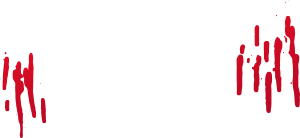
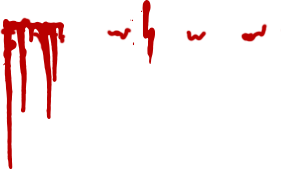
no message

diff --git a/src/js/component/Main.vue b/src/js/component/Main.vue
@@ -12,11 +12,12 @@
 		.title.title1.relat
 			.blood1.abs
 				img(src="../../img/dest/blood1.png")
-			.blood2.abs
-				img(src="../../img/dest/blood2.png")
+			
 			img.relat(src="../../img/dest/index-tit-1.png")
 			
 		.title.title2.relat
+			.blood2.abs
+				img(src="../../img/dest/blood2.png")
 			.blood3.abs
 				img(src="../../img/dest/blood3.png")
 			img.relat(src="../../img/dest/index-tit-2.png")
@@ -84,7 +85,7 @@ export default {
 	},
 	beforeDestroy:function(){
 		//$('.carousel').slick('unslick');
-		
+		console.log('destroy.........');
 	},
 	methods: {
 		...mapActions(['showPageLoading']),
@@ -116,18 +117,60 @@ export default {
 			console.log('starting anim....');
 			let count =0;
 			$('.title').each(function(){
-				TweenMax.fromTo($(this) , 2 ,{opacity:0} , {delay:.5 + count *.2 ,opacity:1})	
+				TweenMax.fromTo($(this) , 2 ,{opacity:0} , {delay:1.5 + count *.2 ,opacity:1})	
 				count ++
 			})
+
+			TweenMax.fromTo ($('.blood1'),5, {scaleY:0 } , {delay:2 , scaleY:1 , transformOrigin:'50% 0%',ease:Sine.easeOut})
+			TweenMax.fromTo ($('.blood2'),5, {scaleY:0 } , {delay:2.5 , scaleY:1 , transformOrigin:'50% 00%',ease:Sine.easeOut})
+
+			TweenMax.fromTo ($('.blood3'),6, {scaleY:0 } , {delay:3.5 , scaleY:1 , transformOrigin:'50% 0%',ease:Sine.easeOut})
+
+
+
 			count =0
 			$('.sub').each(function(){
-				TweenMax.fromTo($(this) , 2 ,{y:20 ,opacity:0} , {delay:1 + count *.2 ,y:0,opacity:1})	
+				TweenMax.fromTo($(this) , 2 ,{y:20 ,opacity:0} , {delay:3.5 + count *.4 ,y:0,opacity:1})	
 				count ++
 			})
 			$('.btn-j').each(function(){
-				TweenMax.fromTo($(this) , .5 ,{opacity:0} , {delay:2 + count *.2 ,y:0,opacity:1})	
+				TweenMax.fromTo($(this) , .5 ,{opacity:0} , {delay:4 + count *.4 ,y:0,opacity:1})	
 				count ++
 			})
+			// const requestAnimationFrame = window.requestAnimationFrame || window.mozRequestAnimationFrame || window.webkitRequestAnimationFrame || window.msRequestAnimationFrame;
+  	// 		window.requestAnimationFrame = requestAnimationFrame;
+  			this.glitch1opts = {dom:$('.title1') , typ:true, count :0 , intervals :[] }
+  			this.glitch2opts = {dom:$('.title2') , typ:false, count :0 , intervals :[] }
+
+  			setTimeout( function(){
+  				glitch()
+				glitch({dom:$('.title2') , typ:false , count :0})
+  			}, 5000)
+			
+			function glitch(opt){
+				loop(opt)
+				function loop(opt){
+					let ifrest 
+					if(opt.count > 15 && Math.random() > .7 ){
+						ifrest = true;
+						opt.count = 0 ;
+					}else{
+						ifrest = false;
+					}
+					
+					if(!opt.typ || ifrest){
+						TweenMax.set(opt.dom , {opacity:1});
+						TweenMax.set(opt.dom , {x: 0});
+						opt.typ = true;
+					}else{
+						TweenMax.set(opt.dom , {opacity:.5 + Math.random() * .4});	
+						TweenMax.set(opt.dom , {x: Math.random()* 6 - 3});
+						opt.typ = false;
+					}
+					opt.count++
+					this.glitch1opts.push (setTimeout(function(){loop(opt)} , (ifrest)? Math.random()*2000 + 2000 : 10 + Math.random()*40 ))
+				}
+			}
 		},
 		bind(){
 			$('.btn-j').each(function(){

diff --git a/src/js/utils/CanvasSlideshow.js b/src/js/utils/CanvasSlideshow.js
@@ -229,7 +229,7 @@ function CanvasSlideshow(options) {
             .to(displacementFilter.scale, 2, { x: options.displaceScale[0], y: options.displaceScale[1], ease: Power2.easeIn })
             .to(slideImages[that.currentIndex], 1, { alpha: 0, ease: Power2.easeOut }, 0.4)
             .to(slideImages[newIndex], 2, { alpha: 1, ease: Power2.easeOut }, 1)
-            .to(displacementFilter.scale, 1.5, { x: options.displaceScaleTo[0], y: options.displaceScaleTo[1], ease: Power1.easeOut }, 0.9);
+            .to(displacementFilter.scale, 2, { x: options.displaceScaleTo[0], y: options.displaceScaleTo[1], ease: Power1.easeOut }, 0.9);
 
     };
 
@@ -464,8 +464,8 @@ function CanvasSlideshow(options) {
 
     this.active = function(id) {
         switch(id){
-                 case 0:
-                     that.moveSlider(0)
+                 case 1:
+                     that.moveSlider(1)
                      TweenMax.fromTo( $('.ghost1') , 3 ,  {y:-500 , opacity:0} , {delay:2,y:1 , opacity:1 })
                      TweenMax.fromTo( $('.ghost2') , 3 ,  {y:500 , opacity:0} , {delay:2,y:1 , opacity:1 })
                  break;

diff --git a/src/js/component/canvas_Pixi.vue b/src/js/component/canvas_Pixi.vue
@@ -5,7 +5,7 @@
 .bg.abs#canv(v-images-loaded:on.progress="imageProgress")
 	.cover.cover1.abs
 		img.inv.filter_image(src="../../img/dest/clouds.jpg")
-		img.inv.cover__image(src="../../img/dest/index-bg.jpg")
+		img.inv.cover__image(src="")
 		img.inv.cover__image(src="../../img/dest/index-bg.jpg")
 	#canvas.abs
 
@@ -104,8 +104,8 @@ export default {
 				sprites: spriteImagesSrc,
 				displacementImage: $('.filter_image').attr('src'),
 				autoPlay: true,
-				autoPlaySpeed: [10, 20],
-				displaceScale: [5000, 10000],
+				autoPlaySpeed: [10, 10],
+				displaceScale: [20000, 20000],
 				interactive: true,
 				interactionEvent: 'click', // 'click', 'hover', 'both' 
 				displaceAutoFit: false,
@@ -113,7 +113,7 @@ export default {
 				//wacky:true,
 			});
 			
-			initCanvasSlideshow.active(0);
+			initCanvasSlideshow.active(1);
 			// function active(id){
 			// 	switch(id){
 			// 		case 0:

diff --git a/src/css/index.less b/src/css/index.less
@@ -25,16 +25,16 @@
             display:inline-block;
             margin:10px auto 3px;
             .blood1{
-                left:-110px;
-                top:85px;
+                left:10px;
+                top:20px;
             }
             .blood2{
                 left:5px;
-                top:20px;
+                top:105px;
             }
             .blood3{
-                left:0px;
-                top:105px;
+                left:280px;
+                top:130px;
             }
         }
         .title1{

diff --git a/gulpfile.js b/gulpfile.js
@@ -63,7 +63,7 @@ gulp.task('webpack-dev-server', (cb) => {
 gulp.task('webpack-build', (cb) => {
   logProduction();
   process.env.NODE_ENV = 'production';
-  process.env.ROOT = '/'
+  process.env.ROOT = '/bio/'
   const config = require('./webpack.config');
   config.plugins.push(
     new webpack.optimize.UglifyJsPlugin({

diff --git a/src/js/component/Loading_page.vue b/src/js/component/Loading_page.vue
@@ -1,7 +1,7 @@
 <style lang="less" src="loading.less" scoped></style>
 <template lang="pug">
 
-transition( :duration="{ enter:50, leave: 1000 }" ,name='fade', mode='out-in')
+transition( :duration="{ enter:0, leave: 500 }" ,name='fade', mode='out-in')
   .loading(v-show='showPageLoading')
     .center
       .bg

diff --git a/src/css/canvas_Pixi.less b/src/css/canvas_Pixi.less
@@ -25,9 +25,11 @@
 .ghost1{
     top:0;
     left:0;
+    opacity:0;
 }
 .ghost2{
         height:665px;
         bottom:0;
         left:0;
+        opacity:0;
 }

diff --git a/src/css/all.less b/src/css/all.less
@@ -9,7 +9,7 @@ body {
     font-family: @fontfamily;
     font-size: 16px;
     font-weight:800;
-    .bg-white;
+    background:#333;
 }
 #app{
     width:750px;
